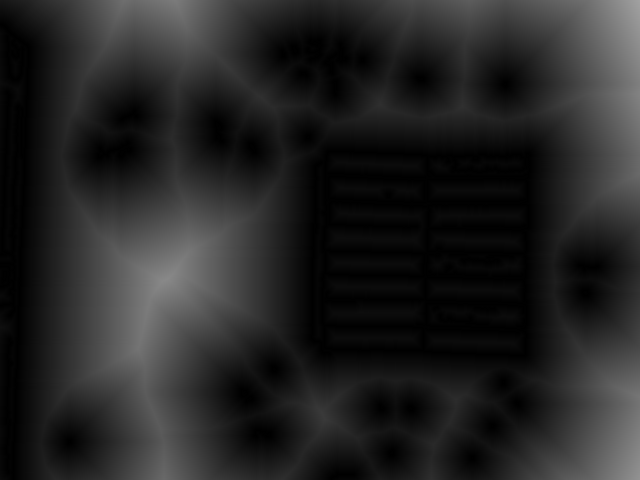
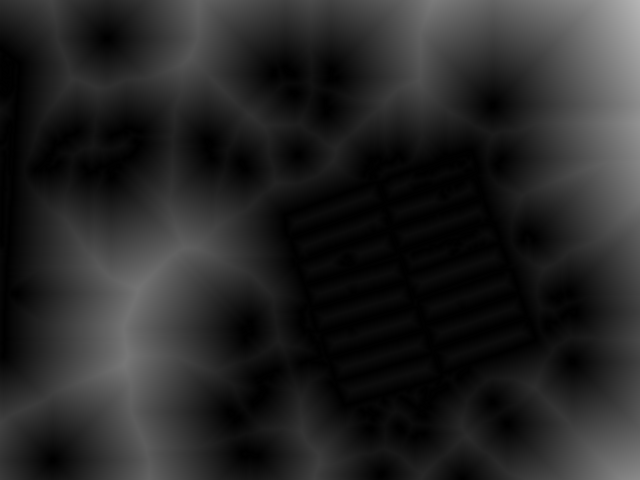
Updated chamfer_report project

diff --git a/01 Classic Vision/chamfer_unit_test/chamfer_unit_test.cpp b/01 Classic Vision/chamfer_unit_test/chamfer_unit_test.cpp
@@ -5,7 +5,7 @@
 int main()
 {
     cv::Mat image;
-    image = cv::imread("../../03 Data/Simple Dataset/colorIMG_12.png");
+    image = cv::imread("../../03 Data/Simple Dataset/colorIMG_193.png");
 
     //cv::resize(image, image, cv::Size(image.size().width * 1.05, image.size().height * 1.05), 0, 0);
 
@@ -20,26 +20,23 @@ int main()
     //std::cout << "angle" << chamfer_detector.predictions[6].angle_vector << " score: " << chamfer_detector.pred_candidates[6].distance_score << std::endl;
 
     imshow("image", image);
+    //cv::waitKey(0);
 
-
-    // Used for figures in the report
     cv::Mat white_template = cv::Mat::ones(chamfer_detector.chamfer_img.rows, chamfer_detector.chamfer_img.cols, chamfer_detector.matching_space_disp.type());
-    white_template *= 255;
-    cv::Mat matRoi = white_template(cv::Rect(0,0,chamfer_detector.matching_space_disp.cols,chamfer_detector.matching_space_disp.rows));
-    chamfer_detector.matching_space_disp.copyTo(matRoi);
+    cv::Mat matRoi = white_template(cv::Rect(0,0,chamfer_detector.model_template.cols,chamfer_detector.model_template.rows));
     cv::Mat conv_template;
-
     chamfer_detector.model_template.convertTo(conv_template, chamfer_detector.matching_space_disp.type());
-    conv_template *= 255;
-    matRoi = white_template(cv::Rect(chamfer_detector.matching_space_disp.cols -1,chamfer_detector.matching_space_disp.rows-1, chamfer_detector.model_template.cols,chamfer_detector.model_template.rows));
     conv_template.copyTo(matRoi);
+    white_template *= 255;
+    matRoi = white_template(cv::Rect(chamfer_detector.model_template.cols-1,chamfer_detector.model_template.rows-1,chamfer_detector.matching_space_disp.cols, chamfer_detector.matching_space_disp.rows));
+    chamfer_detector.matching_space_disp.copyTo(matRoi);
 
-
-    cv::imshow("mat roi", conv_template);
-    cv::imshow("Template", white_template);
+    //cv::imshow("mat roi", conv_template);
+    cv::imshow("Matching space with template", white_template);
     imwrite("Distance_transform.png", chamfer_detector.chamfer_img);
     imwrite("Matching_space.png", white_template);
 
+    cv::imshow("chamfer image", chamfer_detector.chamfer_img);
     //chamfer_detector.create_matchingspace(1, 30);
     cv::waitKey(0);
 

diff --git a/01 Classic Vision/Includes/Chamfer_brick_detector.cpp b/01 Classic Vision/Includes/Chamfer_brick_detector.cpp
@@ -2,15 +2,15 @@
 
 Chamfer_brick_detector::Chamfer_brick_detector()
 {
-	this->canny_thres_high = 70;
-	this->canny_thres_low = 25;
+    this->canny_thres_high = 70;
+    this->canny_thres_low = 25;
 	this->NMS_thresh = 1200;
 }
 
 Chamfer_brick_detector::Chamfer_brick_detector(cv::Mat img)
 {
-	this->canny_thres_high = 70;
-	this->canny_thres_low = 25;
+    this->canny_thres_high = 70;
+    this->canny_thres_low = 25;
 	this->NMS_thresh = 120;
 	this->img = img;
 }
@@ -71,9 +71,9 @@ void Chamfer_brick_detector::compute_chamfer_img()
 	//cv::imshow("edge img", edge_img);
 	cv::threshold(edge_img, edge_img, 127, 255, cv::THRESH_BINARY_INV);
 	cv::distanceTransform(edge_img, this->chamfer_img, CV_DIST_L2, 3);
-	/*cv::Mat tmp_img;
-	cv::normalize(this->chamfer_img, tmp_img, 0, 1.0, cv::NORM_MINMAX, CV_32F);*/
-	//cv::imshow("Distance map", tmp_img);
+    cv::Mat tmp_img;
+    cv::normalize(this->chamfer_img, tmp_img, 0, 1.0, cv::NORM_MINMAX, CV_32F);
+    cv::imshow("Distance map", tmp_img);
 }
 
 void Chamfer_brick_detector::set_NMS_thresh(double thresh)
@@ -124,7 +124,7 @@ void Chamfer_brick_detector::find_rectangle_candidates(int angle_steps, float sc
 			create_template(scale_min + j * scale_res, i * angle_res -90, template_img, tmp_rect);
 
 			cv::matchTemplate(this->chamfer_img, template_img, tmp_matching_space, CV_TM_CCORR); // typically 5-10 ms. CV_TM_CCORR sometimes more. Release
-			/*if (i == angle_steps / 2 + 2 && j == scale_steps / 2)
+            if (i == angle_steps / 2 - 5 && j == scale_steps / 2)
 			{
 				cv::Mat _tmp_template;
 				cv::Mat _tmp_matching;
@@ -135,7 +135,7 @@ void Chamfer_brick_detector::find_rectangle_candidates(int angle_steps, float sc
 				cv::imshow("matching space", _tmp_matching);
                 cv::normalize(tmp_matching_space, this->matching_space_disp, 0, 255, cv::NORM_MINMAX, CV_8UC1);
 
-			}*/
+            }
 
 			match_locations.clear();
 			apply_NMS(tmp_matching_space, match_locations);

diff --git a/01 Classic Vision/chamfer_report/main.cpp b/01 Classic Vision/chamfer_report/main.cpp
@@ -6,19 +6,26 @@ using namespace std;
 int main()
 {
     cv::Mat image;
-    image = cv::imread("../../03 Data/Simple Dataset/colorIMG_12.png");
+    image = cv::imread("../../03 Data/Simple Dataset/colorIMG_193.png");
 
+    cv::Mat image_rot_BB = image.clone();
+    cv::Mat image_BB = image.clone();
     //cv::resize(image, image, cv::Size(image.size().width * 1.05, image.size().height * 1.05), 0, 0);
 
     Chamfer_brick_detector chamfer_detector(image);
     chamfer_detector.detect(image);
     //util::print_bounding_boxes(image, chamfer_detector.predictions);
-    util::print_filled_rotated_bounding_boxes(image, chamfer_detector.predictions, 0.3);
-    //util::print_rotated_bounding_boxes(image, chamfer_detector.predictions);
-    //util::print_bounding_boxes(image, chamfer_detector.predictions, cv::Scalar(255, 0, 0));
-    cv::imshow("Image with BB", image);
+    util::print_filled_rotated_bounding_boxes(image_rot_BB, chamfer_detector.predictions, 0.3, cv::Scalar(255,0,255));
+    util::print_rotated_bounding_boxes(image_rot_BB, chamfer_detector.predictions, cv::Scalar(255,0,255));
+    util::print_bounding_boxes(image_BB, chamfer_detector.predictions, cv::Scalar(255, 0, 255));
+    cv::imshow("Image with rot BB", image_rot_BB);
+    cv::imshow("Image with BB", image_BB);
+
+    imwrite("chamfer_pred_rotBB.png", image_rot_BB);
+    imwrite("chamfer_pred_BB.png", image_BB);
 
     cout << "Hello World!" << endl;
     cv::waitKey(0);
     return 0;
 }
+
